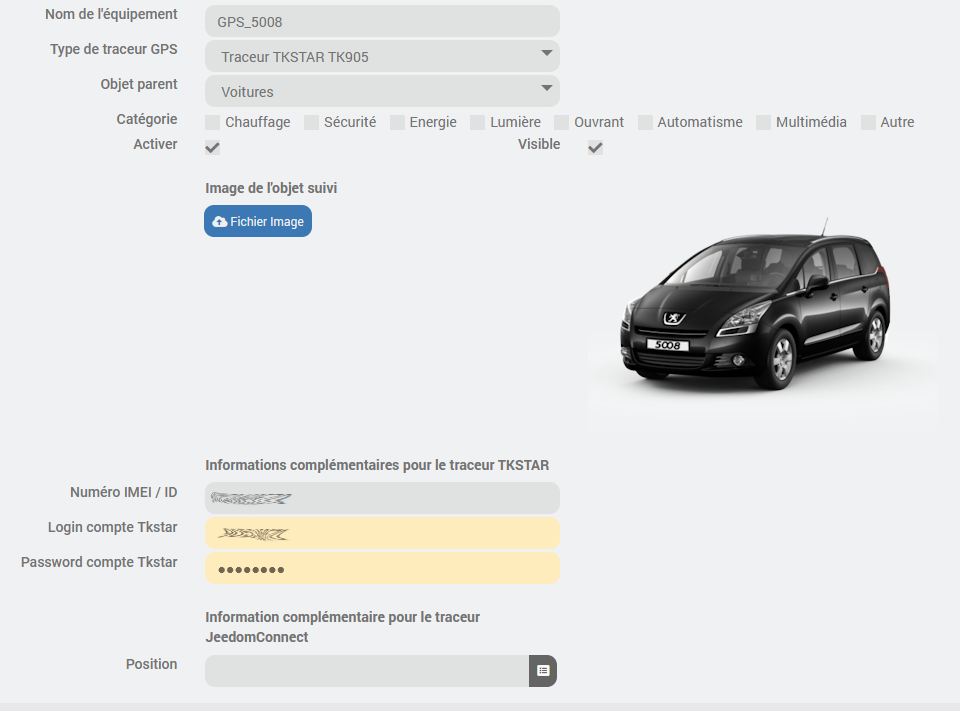
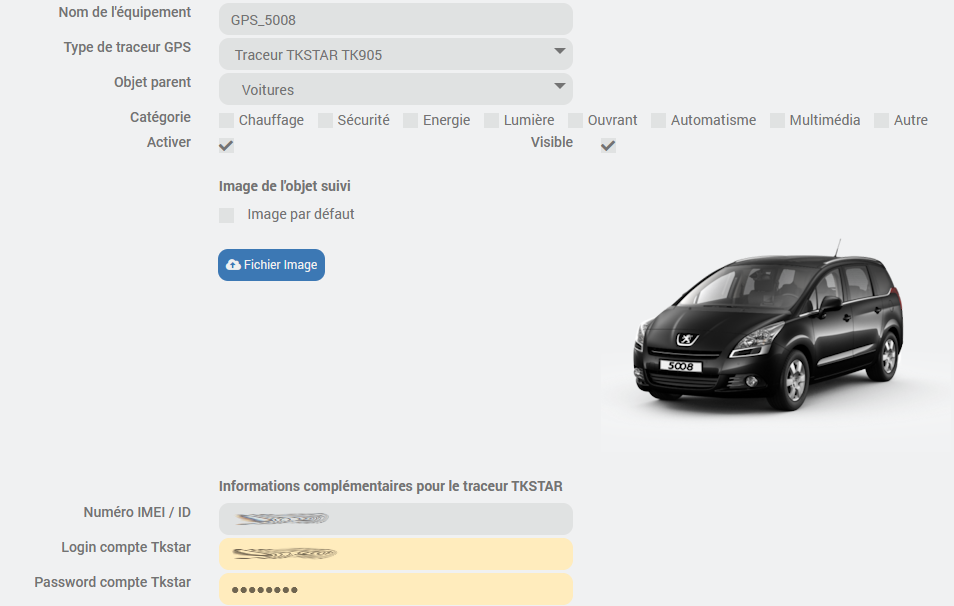
Ajout image par defaut

diff --git a/core/template/dashboard/cmd.action.slider.img_gpstr.html b/core/template/dashboard/cmd.action.slider.img_gpstr.html
@@ -10,7 +10,6 @@
 
     $('.cmd[data-cmd_id=#id#] .picture').on('click', function () {
       var param_str = '#listValue#';
-      console.log("listValue:"+param_str);
       var imei_sta1 = param_str.indexOf('&');
       var imei_sta2 = param_str.indexOf('~');
       if ((imei_sta1 != -1) && (imei_sta2 != -1)) {
@@ -19,16 +18,15 @@
         eq_id = param[0];
         eq_path = param[1];
       }
-      if ((eq_id != "") && (eq_path != "")) {
+      if (eq_id != "") {
         var urlcourante = document.location.href;
         urlcourante = urlcourante.replace(/\/$/, "");
         index_end_root = urlcourante.lastIndexOf( "/" );
         url_root = urlcourante.substring(0, index_end_root);
-        window.location = url_root+"/index.php?v=d&m=gps_tracker&p=panel&eq_id="+eq_id+"&eq_path="+eq_path;
+        window.location = url_root+"/index.php?v=d&m=gps_tracker&p=panel&eq_id="+eq_id;
       }
     });
     jeedom.cmd.update['#id#'] = function(_options){
-      var img_fn = "/img.png";
       var param_str = '#listValue#';
       console.log("listValue:"+param_str);
       var imei_sta1 = param_str.indexOf('&');
@@ -43,7 +41,12 @@
       console.log("eq_id:"+eq_id);
       console.log("eq_path:"+eq_path);
       if (eq_path != "") {
-        var img_path = '<img src="plugins/gps_tracker/data/' + eq_path + img_fn + '" style="max-height:150px;max-width:250px;height:auto;width:auto;"/>';
+        var path = "";
+        if      (eq_path == "tks_def") path = "img_def/tks_def.png";
+        else if (eq_path == "jcn_def") path = "img_def/jcn_def.png";
+        else if (eq_path == "jmt_def") path = "img_def/jmt_def.png";
+        else path = eq_path + "/img.png";
+        var img_path = '<img src="plugins/gps_tracker/data/' + path + '" style="max-height:150px;max-width:250px;height:auto;width:auto;"/>';
         $('.cmd[data-cmd_id=#id#] .picture').empty().append(img_path);
       }
     }

diff --git a/desktop/php/panel.php b/desktop/php/panel.php
@@ -14,9 +14,8 @@ $date = array(
 sendVarToJS('eqType', 'gps_tracker');
 sendVarToJs('object_id', init('object_id'));
 $eqLogics = eqLogic::byType('gps_tracker');
-if ((isset($_GET["eq_id"])) && (isset($_GET["eq_path"]))) {
+if (isset($_GET["eq_id"])) {
   $eq_id   = $_GET["eq_id"];
-  $eq_path = $_GET["eq_path"];
   foreach ($eqLogics as $eql) {
     if ($eq_id == $eql->getId())
       $eqLogic = $eql;
@@ -25,18 +24,36 @@ if ((isset($_GET["eq_id"])) && (isset($_GET["eq_path"]))) {
 else {
   $eqLogic = $eqLogics[0];
   $eq_id = $eqLogic->getId();
-  $eq_path = "";
+}
+// Path to image
+$eq_path = "";
 
-  $tracker_type = $eqLogic->getConfiguration("type_tracker");
-  if ($tracker_type == "TKS") {
-    $imei_id     = $eqLogic->getConfiguration("tkstar_imei");
-    $eq_path = "tks_".$imei_id;
-  }
-  else if ($tracker_type == "JCN") {
-    $jd_getposition_cmd  = $eqLogic->getConfiguration("cmd_jc_position");
-    $jd_getposition_cmdf = str_replace ('#', '', $jd_getposition_cmd);
-    $eq_path = "jcn_".$jd_getposition_cmdf;
-  }
+$tracker_type  = $eqLogic->getConfiguration("type_tracker");
+$default_image = $eqLogic->getConfiguration("img_default");
+
+if ($tracker_type == "TKS") {
+  $imei_id     = $eqLogic->getConfiguration("tkstar_imei");
+  $eq_path = "tks_".$imei_id;
+  $eq_def = "tks_def.png";
+}
+else if ($tracker_type == "JCN") {
+  $jd_getposition_cmd  = $eqLogic->getConfiguration("cmd_jc_position");
+  $jd_getposition_cmdf = str_replace ('#', '', $jd_getposition_cmd);
+  $eq_path = "jcn_".$jd_getposition_cmdf;
+  $eq_def = "jcn_def.png";
+}
+else if ($tracker_type == "JMT") {
+  $jm_getposition_cmd  = $eqLogic->getConfiguration("cmd_jm_position");
+  $jm_getposition_cmdf = str_replace ('#', '', $jm_getposition_cmd);
+  $eq_path = "jmt_".$jm_getposition_cmdf;
+  $eq_def = "jmt_def.png";
+}
+
+if ($default_image == False) {
+  $img_path = "plugins/gps_tracker/data/".$eq_path."/img.png";    
+}
+else {
+  $img_path = "plugins/gps_tracker/data/img_def/".$eq_def;    
 }
 
 log::add('gps_tracker', 'debug', 'Pannel: eq_id:'.$eq_id.' / eq_path:'.$eq_path);
@@ -68,7 +85,7 @@ if (is_object($cmd_mlg)) {
                 </select>
               </div>
               <div class="pull-right" style="min-height: 30px;">
-                <img id="voiture_img" src=<?php echo "plugins/gps_tracker/data/$eq_path/img.png"; ?> style="max-height:250px;max-width:350px;height:auto;width:auto;" />
+                <img id="voiture_img" src=<?php echo $img_path; ?> style="max-height:250px;max-width:350px;height:auto;width:auto;" />
               </div>
             </fieldset>
         </div>

diff --git a/core/class/gps_tracker.class.php b/core/class/gps_tracker.class.php
@@ -78,6 +78,7 @@ class gps_tracker extends eqLogic {
     {
       // filtrage premier passage
       $tracker_type = $this->getConfiguration("type_tracker");
+      $default_image = $this->getConfiguration("img_default");
       log::add('gps_tracker','debug',"postSave:Type traceur:".$tracker_type);
 
       // Pour les traceur TKSTAR, verification du Login API
@@ -152,6 +153,11 @@ class gps_tracker extends eqLogic {
             $cmd->save();
           }
           else if ($id == "photo") {
+            if ($default_image == True) {
+              if      ($tracker_type == "TKS") $data_dir = "tks_def";
+              else if ($tracker_type == "JCN") $data_dir = "jcn_def";
+              else if ($tracker_type == "JMT") $data_dir = "jmt_def";
+            }
             $param = $this->getId().','.$data_dir;
             $cmd->setConfiguration('listValue', 'PARAM|'.'&'.$param.'~');
             $cmd->save();
@@ -183,6 +189,11 @@ class gps_tracker extends eqLogic {
           }
           else if ($id == "photo") {
             // $cmd->setConfiguration('listValue', 'PATH|'.'&'.$data_dir.'~');
+            if ($default_image == True) {
+              if      ($tracker_type == "TKS") $data_dir = "tks_def";
+              else if ($tracker_type == "JCN") $data_dir = "jcn_def";
+              else if ($tracker_type == "JMT") $data_dir = "jmt_def";
+            }
             $param = $this->getId().','.$data_dir;
             $cmd->setConfiguration('listValue', 'PARAM|'.'&'.$param.'~');
             $cmd->save();

diff --git a/doc/fr_FR/documentation.md b/doc/fr_FR/documentation.md
@@ -5,9 +5,10 @@
 Ce plugin permet de capturer les trajets enregistrés par un traceur GPS, et de les organiser dans une base de données locale.<br>
 Cela permet de suivre une voiture, un bateau, un vélo ou un piéton.<br>
 
-Il permet de gérer 2 traceurs GPS dans sa première version:
+Il permet de gérer 3 traceurs GPS dans sa première version:
 * Un traceur GPS TKSTAR : [TK905](https://www.cdiscount.com/search/10/tk905.html#_his_)
 * Un téléphone avec l'application JeedomConnect installée
+* Un téléphone avec l'application Jeemate installée
 
 Les informations disponibles dans le widgets sont:
 * Situation de l'objet suivi sur une carte (Position GPS), distance au domicile, et information si l'objet se déplace.
@@ -36,11 +37,20 @@ Par source Github:
 
 ## Configuration
 Une fois l'installation effectuée:<br>
-Sur l'onglet "**Equipement**", sélectionner le type de traceur GPS utilisé (TK905 ou JeedomConnect), et choisissez l'objet parent.<br>
+Sur l'onglet "**Equipement**", sélectionner le type de traceur GPS utilisé (TK905, JeedomConnect ou Jeemate), et choisissez l'objet parent.<br>
 Vous pouvez ensuite télécharger une image de l'objet suivi, qui sera reprise dans le widget et le pannel.<br>
+Il est possible de sélectionner une image par défaut en cochant la case correspondante.
 
 <p align="left">
   <img src="../images/config_equipement.png" width="800" title="Configuration équipement">
+</p>
+
+<p align="left">
+  <img src="../images/config_equipement2.png" width="800" title="Configuration équipement">
+</p>
+
+<p align="left">
+  <img src="../images/config_equipement3.png" width="800" title="Configuration équipement">
 </p>
 
 Il faut saisir ensuite quelques informations complémentaires selon le type de traceur.<br>
@@ -49,7 +59,12 @@ Pour le traceur TKSTAR:
 * Les paramètres de login au compte associé. (Login / mot de passe)
 
 Pour le traceur Jeedom connect, il faut saisir le paramètre suivant qui est un champ "info" de votre équipement Téléphone dans le plugin JeedomConnect.
-* Position GPS courante
+* Position: [Position]
+
+Pour le traceur Jeemate connect, il faut saisir les 3 paramètres suivants qui sont des champs "info" de votre équipement Téléphone dans le plugin JeedomMate.
+* Position: [(GeoLoc) Position]
+* Activité: [(GeoLoc) Type activité]
+* Batterie: [State Battery]
 
 Il faut également activer l'option "Ajouter données à la position" dans l'équipement JeedomConnect.<br>
 Cela permettra d'ajouter l'altitude, l'activité et le niveau de batterie aux informations de position.<br>

diff --git a/doc/fr_FR/changelog.md b/doc/fr_FR/changelog.md
@@ -3,4 +3,10 @@
 
 ## 05/09/2021: Tag gps_trk_v0.1
 
-- Version originale: gestion des traceurs TK905 et téléphone avec JeedomConnect
+- Version originale: gestion des traceurs TK905 et téléphone avec appli JeedomConnect
+
+## 19/10/2021: Tag gps_trk_v0.2
+
+- Ajout du traceur téléphone avec appli Jeemate
+- Gestion de l'historique des positions GPS sur les applis JeedomConnect et Jeemate
+- Ajout d'une image par défaut pour chaque équipement
